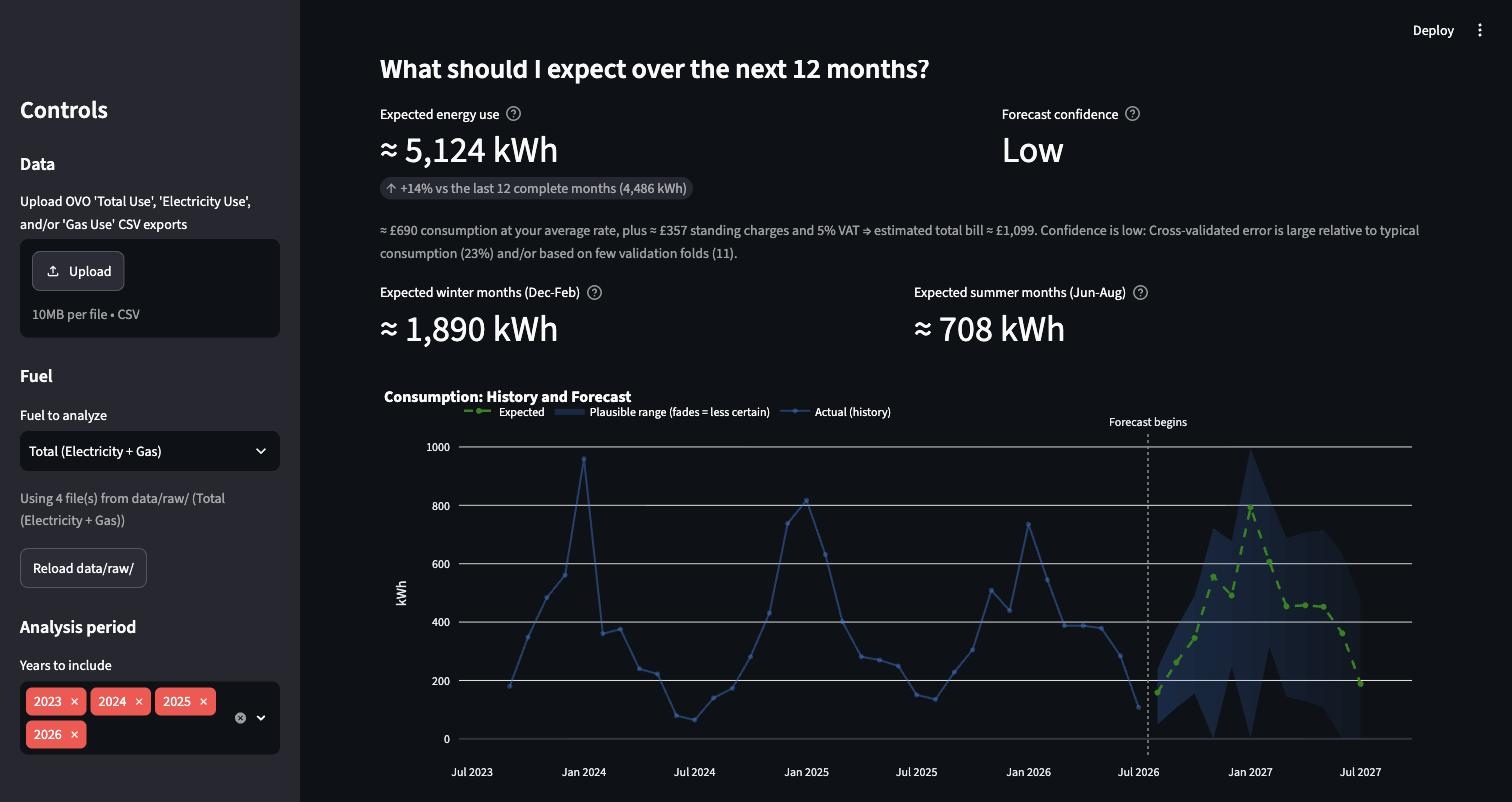
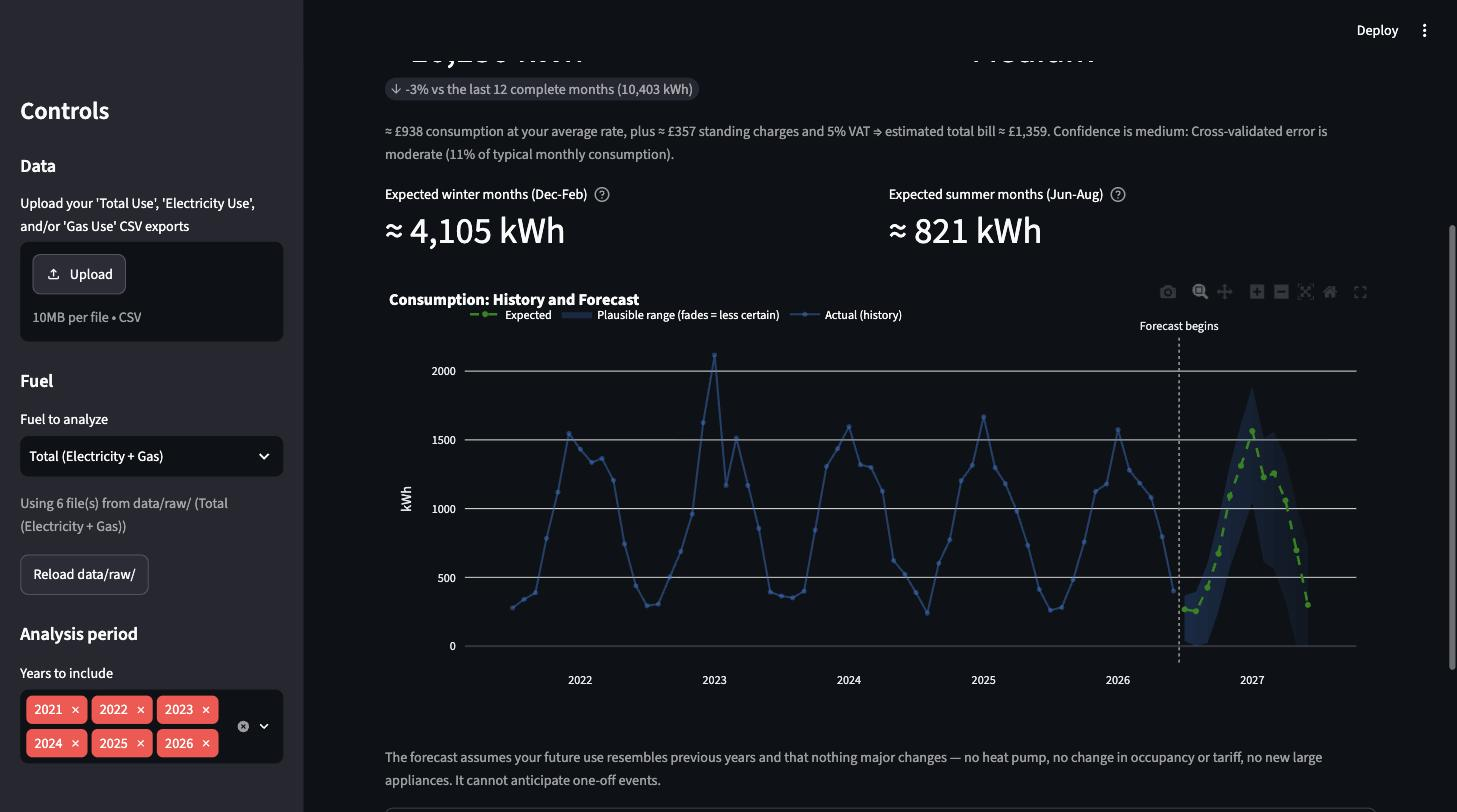
Refresh README screenshots and examples with synthetic data only
Replaces all screenshots (previously the author's real household data)
with ones captured against the bundled synthetic demo dataset, adds a
new Consultant screenshot, and regenerates the "What it can tell you"
table from real answers the app gave when asked those exact questions
against the synthetic data -- so the quoted text and the screenshots
now agree with each other, and neither exposes anyone's real usage.

Also adds a CSV format example (a real excerpt from data/synthetic/) to
the "Your data" section so a new user can see the expected columns and
filename convention at a glance, a short Contents nav for scannability,
and a note pointing at scripts/generate_synthetic_dataset.py so the
provenance of the demo numbers is transparent rather than just asserted.

diff --git a/README.md b/README.md
@@ -12,16 +12,30 @@ of guessing.
 
 ![Home: this month compared with last year](docs/screenshots/home.jpg)
 
+> The screenshots and example answers in this README come from the
+> bundled synthetic demo dataset (`data/synthetic/`, [generated by a
+> documented script](scripts/generate_synthetic_dataset.py) from real
+> Aberdeen weather + a household energy model) -- never a real person's
+> data. Every number you see is a genuine output of the app running on
+> that dataset, just not anyone's actual bill.
+
+**Contents:** [What it can tell you](#what-it-can-tell-you) ·
+[Features](#features) · [Screenshots](#screenshots) ·
+[Quick start](#quick-start) · [Your data](#your-data) ·
+[Design principles](#design-principles) ·
+[Project layout](#project-layout) ·
+[More documentation](#more-documentation)
+
 ## What it can tell you
 
-Real answers from the author's real 35-month household dataset:
+Real answers, computed by the app from the synthetic demo dataset:
 
 | You ask | It answers |
 |---|---|
-| How did this month compare with last year? | *"You used 14% more energy than June 2025, mainly because electricity use rose. Gas use actually fell. Worth a quick look: this is your highest June on record."* |
-| Should I focus on reducing gas or electricity? | *"Gas accounts for 65% of annual energy and drives 89% of heating sensitivity; reducing gas demand is likely to produce larger savings than reducing electricity use."* |
-| Why was December 2024 unusual? | *"December 2024 had mixed severe weather (5 severe-gust days, max 91 km/h), which may have contributed to higher usage -- but consumption remained +219 kWh above what the temperature model expected, so severe weather alone does not explain the full increase."* |
-| How does my usage compare to average? | *"Electricity usage is below average for a UK household (1,555 kWh/year vs a 2,500 kWh/year reference). Gas usage is below average (2,863 vs 9,500)."* |
+| How did this month compare with last year? | *"You used about the same energy as June 2025 (-3%). This month was within the normal June range. No action is needed."* |
+| Should I focus on reducing gas or electricity? | *"Gas accounts for 84% of annual energy and drives 95% of heating sensitivity; reducing gas demand is likely to produce larger savings than reducing electricity use."* |
+| Was the difference caused by weather? | *"Mostly yes -- the weather accounts for the larger share of the change. Of the -12 kWh change, -12 kWh matches what the temperature model expected and -1 kWh does not."* |
+| How does my usage compare to average? | *"Electricity usage is below average for a UK household (1,733 kWh/year vs a 2,500 kWh/year reference). Gas usage is average for a UK household (9,258 kWh/year vs a 9,500 kWh/year reference)."* |
 
 ## Features
 
@@ -34,7 +48,6 @@ Real answers from the author's real 35-month household dataset:
   vs electricity, and judged in words ("Higher but weather-explained"),
   with documented practical thresholds -- see
   [docs/month_comparison.md](docs/month_comparison.md).
-
 - **AI Consultant & AI Analyst** -- 17 canonical questions with free-text
   routing (month-comparison questions answer for the currently selected
   month, fuel, and comparison mode -- never stale state), plus a full
@@ -47,13 +60,15 @@ Real answers from the author's real 35-month household dataset:
   explains unusual months without ever claiming causation
   ([docs/weather_context.md](docs/weather_context.md)). Cooling terms stay
   in the model for reuse in warmer climates, but for a home without air
-  conditioning -- like this Aberdeen dataset, where cooling degree days
-  are zero across the entire history -- cooling is reported as
-  undetectable and kept out of the main view, never fabricated.
+  conditioning -- like the Aberdeen climate used as this app's default
+  location, where cooling degree days are zero across the entire history
+  -- cooling is reported as undetectable and kept out of the main view,
+  never fabricated. Your own location is searchable and confirmable from
+  the sidebar.
 - **Forecasting** -- 8 models (naive through SARIMA, Prophet, XGBoost,
   LightGBM) compared by walk-forward cross-validation, with P10/P50/P90
-  bands. On the real data, Seasonal Naive wins -- an honest finding that
-  complexity doesn't help at ~35 monthly observations.
+  bands. Whichever model wins is used -- if that's the simplest one, the
+  app says so plainly rather than dressing up complexity that didn't help.
 - **Unusual-month detection** -- three cross-referenced anomaly methods
   plus change-point detection, each flagged month getting a "possible
   causes" checklist that only ticks what the data actually supports.
@@ -72,6 +87,12 @@ controls and the two-period chart.
 
 ![Month comparison: June 2026 vs June 2025](docs/screenshots/month_comparison.jpg)
 
+**Ask the Energy Consultant** -- pick a question or type your own; every
+answer states its confidence and cites the evidence behind it, and
+unmatched questions get the question list back rather than a guess.
+
+![AI Consultant answering "Should I focus on reducing gas or electricity?"](docs/screenshots/consultant.jpg)
+
 **What should I expect next?** -- answer-first forecasting: expected use
 and confidence lead; the model and the plausible range live in collapsed
 detail sections, and the uncertainty band visibly fades with the horizon.
@@ -86,6 +107,10 @@ python3 -m venv .venv
 ./.venv/bin/pip install -r requirements.lock && ./.venv/bin/pip install -e . --no-deps
 ./.venv/bin/streamlit run app/streamlit_app.py
 ```
+
+No data of your own yet? Upload the bundled demo CSVs from
+`data/synthetic/` using the sidebar's uploader to explore every tab
+immediately -- no need to touch `data/raw/`.
 
 Tests and linting (the suite is network-free -- weather calls are mocked
 or served from the disk cache):
@@ -104,26 +129,42 @@ lock with `pip install -e ".[dev]" && pip freeze --exclude-editable > requiremen
 ## Your data
 
 Works with any energy provider's monthly billing export -- not tied to one
-company. Drop your "Total Use" file (and optionally separate "Electricity
-Use"/"Gas Use" files, if your provider breaks usage down by fuel) into
-`data/raw/`, or upload them from the sidebar. The filename must contain
-"Total Use", "Electricity Use", or "Gas Use" so the app can tell the files
-apart -- rename the file if your provider names exports differently. These
-are *monthly* billing summaries (`Month, Cost (£), Consumption (kWh)`), not
-smart-meter readings -- every analysis here is scoped to what ~35 monthly
-observations honestly support, rather than faking daily-data resolution.
-Nothing assumes the input is clean: duplicates, conflicts, missing months,
-and implausible values are detected and reported on the Data Quality tab.
+company. These are *monthly* billing summaries, not smart-meter readings
+-- every analysis here is scoped to what ~35 monthly observations
+honestly support, rather than faking daily-data resolution.
+
+Expected format (a real excerpt from the bundled demo dataset,
+`data/synthetic/Total Use 2024.csv`):
+
+```csv
+Month,Cost (£),Consumption (kWh)
+January 2024,141.65,1595.99
+February 2024,117.46,1319.17
+March 2024,116.85,1300.29
+```
+
+- **One file per year.** `Total Use <year>.csv` is all you need; separate
+  `Electricity Use <year>.csv` / `Gas Use <year>.csv` files are optional
+  and unlock fuel-level analysis (cross-checked against Total for
+  consistency, so a mismatch gets flagged, not silently trusted).
+- **The filename is how the app tells the files apart** -- it must
+  contain "Total Use", "Electricity Use", or "Gas Use" somewhere in it.
+  Rename the file if your provider's export is named differently.
+- Drop your files into `data/raw/`, or upload them from the sidebar.
+  Nothing assumes the input is clean: duplicates, conflicts, missing
+  months, and implausible values are detected and reported on the Data
+  Quality tab.
 
 ## Design principles
 
 - **Never invent a number.** Standing charges and VAT aren't in the
   exports, so bill totals only appeared once the user supplied the actual
-  tariff facts (62.77p/34.97p per day standing, 5% VAT, 6th-to-5th billing
-  cycle -- `config.BillingConfig`); every bill figure is labelled as the
-  estimate it is, component by component. No solar/EV/battery
-  recommendation exists because no roof/vehicle/appliance data exists --
-  enforced by the absence of a code path, not a runtime check.
+  tariff facts (standing charge rates in p/day, VAT %, 6th-to-5th billing
+  cycle -- `config.BillingConfig`, editable in the sidebar); every bill
+  figure is labelled as the estimate it is, component by component. No
+  solar/EV/battery recommendation exists because no roof/vehicle/appliance
+  data exists -- enforced by the absence of a code path, not a runtime
+  check.
 - **Evidence and confidence on everything.** Findings and recommendations
   carry their evidence lines, a High/Medium/Low rating, and the reason for
   that rating; builders return nothing rather than fabricate.
@@ -136,12 +177,14 @@ and implausible values are detected and reported on the Data Quality tab.
 
 ```
 energy_ai/
-├── app/          # Streamlit UI: 9 question-oriented tabs, sidebar, charts, HTML report
-├── src/          # all analysis logic -- no Streamlit imports, unit-testable directly
-├── data/raw/     # your energy provider's CSV exports (data/processed/ holds the weather cache)
-├── docs/         # roadmap, month-comparison + weather data dictionaries, audit reports
-├── tests/        # pytest suite: unit + integration + UI (AppTest), network-free
-└── config.py     # paths, thresholds, weather/benchmark/carbon constants -- all in one place
+├── app/               # Streamlit UI: 9 question-oriented tabs, sidebar, charts, HTML report
+├── src/               # all analysis logic -- no Streamlit imports, unit-testable directly
+├── data/raw/          # your energy provider's CSV exports (data/processed/ holds the weather cache)
+├── data/synthetic/    # non-personal demo dataset used for this README's screenshots and examples
+├── scripts/           # generate_synthetic_dataset.py, pipeline profiling, month-comparison verification
+├── docs/              # roadmap, month-comparison + weather data dictionaries, audit reports, screenshots
+├── tests/             # pytest suite: unit + integration + UI (AppTest), network-free
+└── config.py          # paths, thresholds, weather/benchmark/carbon constants -- all in one place
 ```
 
 Navigation is organized around user questions -- Home, "How did this
